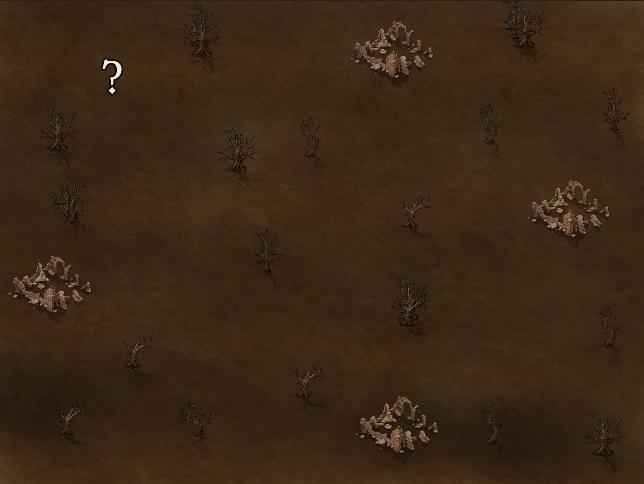
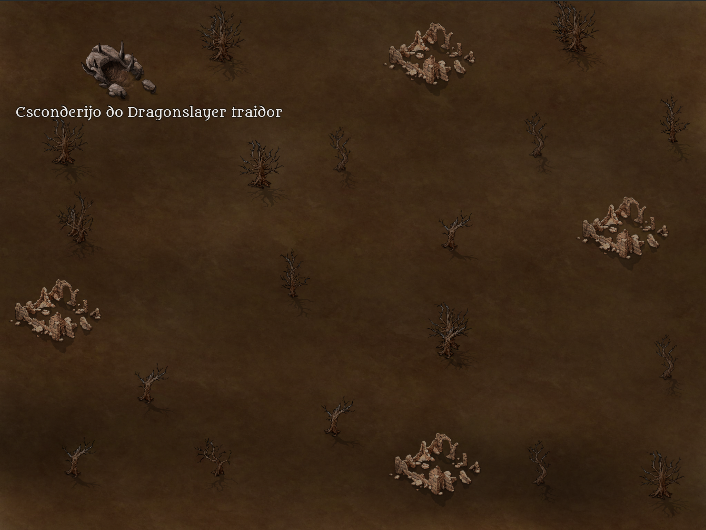
Púrpura do Oeste

diff --git a/src/app/main/sessoes/sessoes.component.html b/src/app/main/sessoes/sessoes.component.html
@@ -381,5 +381,22 @@
             <p>Voltando para o ducado, eles são consagrados como aventureiros de ouro, chamando muita atenção dos outros aventureiros.</p>
             <p>Eles saem em uma semana de acampamento de treinamento intensivo com o Demônio da Forja, onde eles aprendem muito sobre metalurgia, quimica e física.</p>
             </accordion-group>
+            <accordion-group>
+              <div accordion-heading class="header">22° sessão 08/11</div>
+              <p>O grupo resolve ir falar com a rainha, saber qual é essa tal missão que ela tinha mandado para a guilda dos aventureiros.</p>
+              <p>Chegando nos aposentos da rainha, ela chora dizendo que seu filho, o Henrich, sumiu. Mas por causa de um amuleto mágico, ela sabia o paradeiro dele, que estava na fenda Cheslis.</p>
+              <p>O grupo aceita ir atrás de Henrich, mas não antes de ir falar com o Demônio da forja.</p>
+              <p>O Demônio da Forja lembra que na fenda Cheslis havia várias plantas raras e minerais preciosos, mas seria dificil para o grupo reconhecer tal plantas, então ele resolve ir junto.</p>
+              <p>No caminho, o grupo passa pelo vilarejo Varanasi para entregar umas moedas de ouro para a familia do Sid.</p>
+              <p>Chegando na fenda Cheslis, o grupo, depois de alguma investigação, acaba indo para a caverna dos gigantes. O Demônio da Forja diz que vai ficar do lado de fora coletando material enquanto o grupo entra na caverna.</p>
+              <p>A caverna está toda abandonada, porém, quando eles adentram mais ao fundo, acabam caindo na armadilha de Henrich, que se mostrou uma pessoa completamente diferente. Seus cabelos estão brancos, olhos roxos e ele emana uma aura demoníaca dele. Além disso, o Maxine da Espada Sagrada está com ele, mas completamente fora de si.</p>
+              <p>Depois de uma luta perigosa, eles conseguem matar Henrich. Depois da morte de Henrich, Maxine perde a consciencia e uma esfera roxa brilhante sai de dentro de Henrich e invoca um Dragão das Sombras Ancião ao lado dos Aventureiros.</p>
+              <p>Nessa hora, o Demônio da Forja, que estava minerando logo acima deles acaba fazendo um buraco no teto da caverna e encontra os aventureiros la dentro. Ele entra para falar com eles, mas percebe que um Dragão Ancião se encontrava no local.</p>
+              <p>Um Dragão das Sombras Ancião é um perigo inestimável para o reino. Além disso, seus aprendizes estavam logo ali. O Demônio da Forja teve que agir rápido.</p>
+              <p>Suas ombreiras começam a se estender e uma armadura completa, que envolve o corpo inteiro dele, surje. Uma capa vermelha cresce das costas dele com a escrita "Púrpura do Oeste" em amarelo.</p>
+              <p>O Púrpura do Oeste pega da sua bag of holding o cristal de armazenar magia que ele havia guardado. Ele tinha uma magia de teletransporte guardada la dentro para caso alguma hora fosse necessária.</p>
+              <p>Sem hesitar, ele teletransporta seus aprendizes para longe do perigo eminente e a última coisa que eles veem é o Púrpura do Oeste e o Dragão Ancião engajando em combate.</p>
+              <p>Os aventureiros se encontram em uma sala fechada, com uma Elfa presa e toda surrada. Eles matam dois dos bandidos que estão por lá e libertam a elfa, mas ainda não sabem muito sobre ela. Eles resolvem sair daquela caverna, matando todos os bandidos que encontram no caminho, mas capturam um cavaleiro Elfico que estava no local.</p>
+              </accordion-group>
   </accordion>
 </div>

diff --git a/src/app/main/npcs/primarios/primarios.component.html b/src/app/main/npcs/primarios/primarios.component.html
@@ -86,4 +86,13 @@
             </p>
         </div>
     </div>
+    <div class="card col-md-3">
+        <img class="card-img-top" src="../../../../assets/imgs/npcs/PúrpuraDoOeste.jpg" alt="Card image cap">
+        <div class="card-body">
+            <h3>Púrpura do Oeste</h3>
+            <p class="card-text">
+                O primeiro aventureiro de Adamantium que surgiu no reino. Seu paradeiro ficou desconhecido por mais de uma década, acreditava-se que ele poderia até ter morrido. No final, depois de todo esse tempo, o Púrpura do Oeste era o Demônio da Forja.
+            </p>
+        </div>
+    </div>
 </div>

diff --git a/src/app/main/npcs/secundarios/secundarios.component.html b/src/app/main/npcs/secundarios/secundarios.component.html
@@ -67,4 +67,13 @@
             </p>
         </div>
     </div>
+    <div class="card col-md-3">
+        <img class="card-img-top" src="../../../../assets/imgs/npcs/PrincesaElfa.png" alt="Card image cap">
+        <div class="card-body">
+            <h3>Liifa</h3>
+            <p class="card-text">
+                Uma elfa que foi encontrada presa dentro de um cativeiro em um lugar desconhecido. Ainda não se sabe muito sobre quem ela é ou porquê ela estava lá.
+            </p>
+        </div>
+    </div>
 </div>

diff --git a/src/app/main/npcs/npcs.component.scss b/src/app/main/npcs/npcs.component.scss
@@ -24,6 +24,7 @@
     border-radius: 20px;
     font-size: 3vw;
     margin: 10px 0;
+    min-width: 15rem;
 }
 
 .botao:hover{
